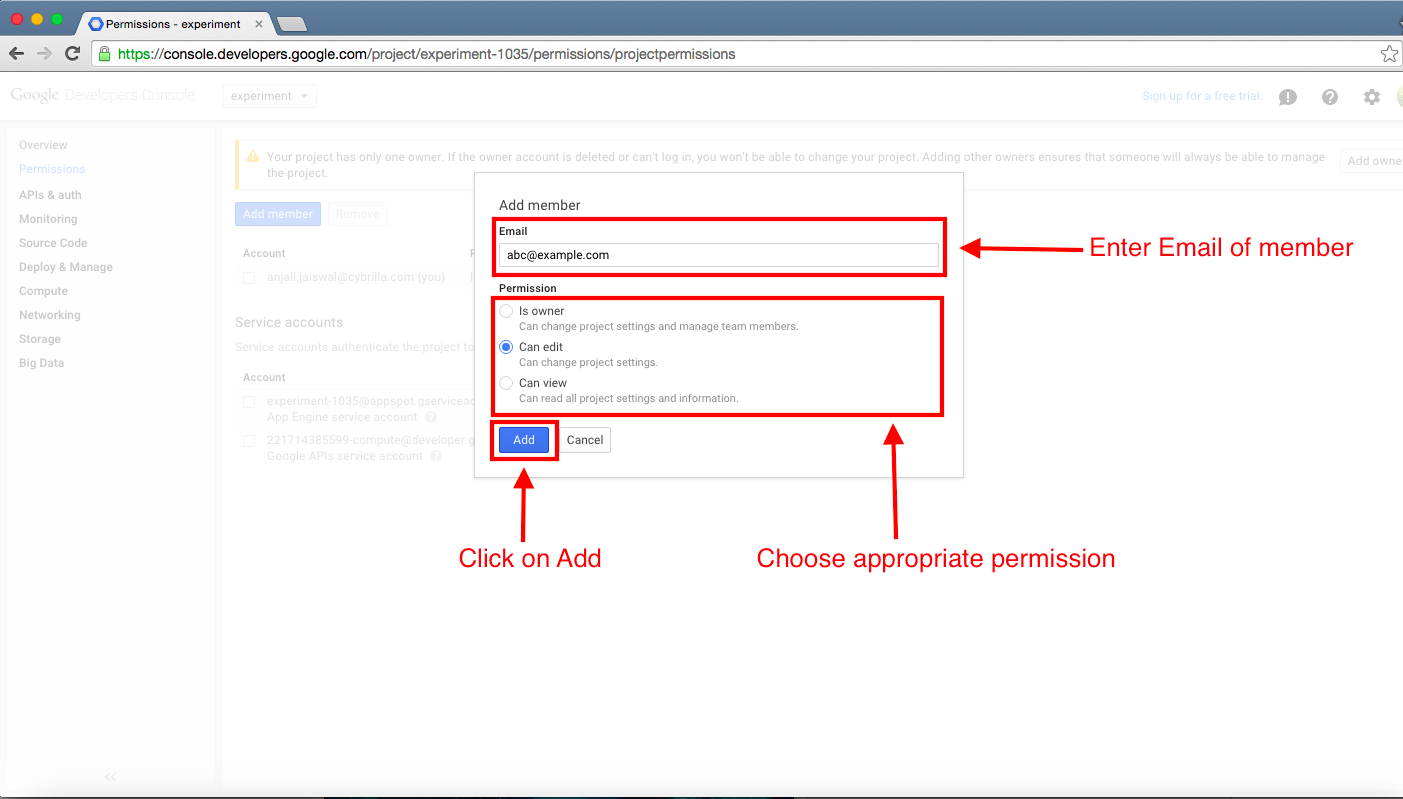
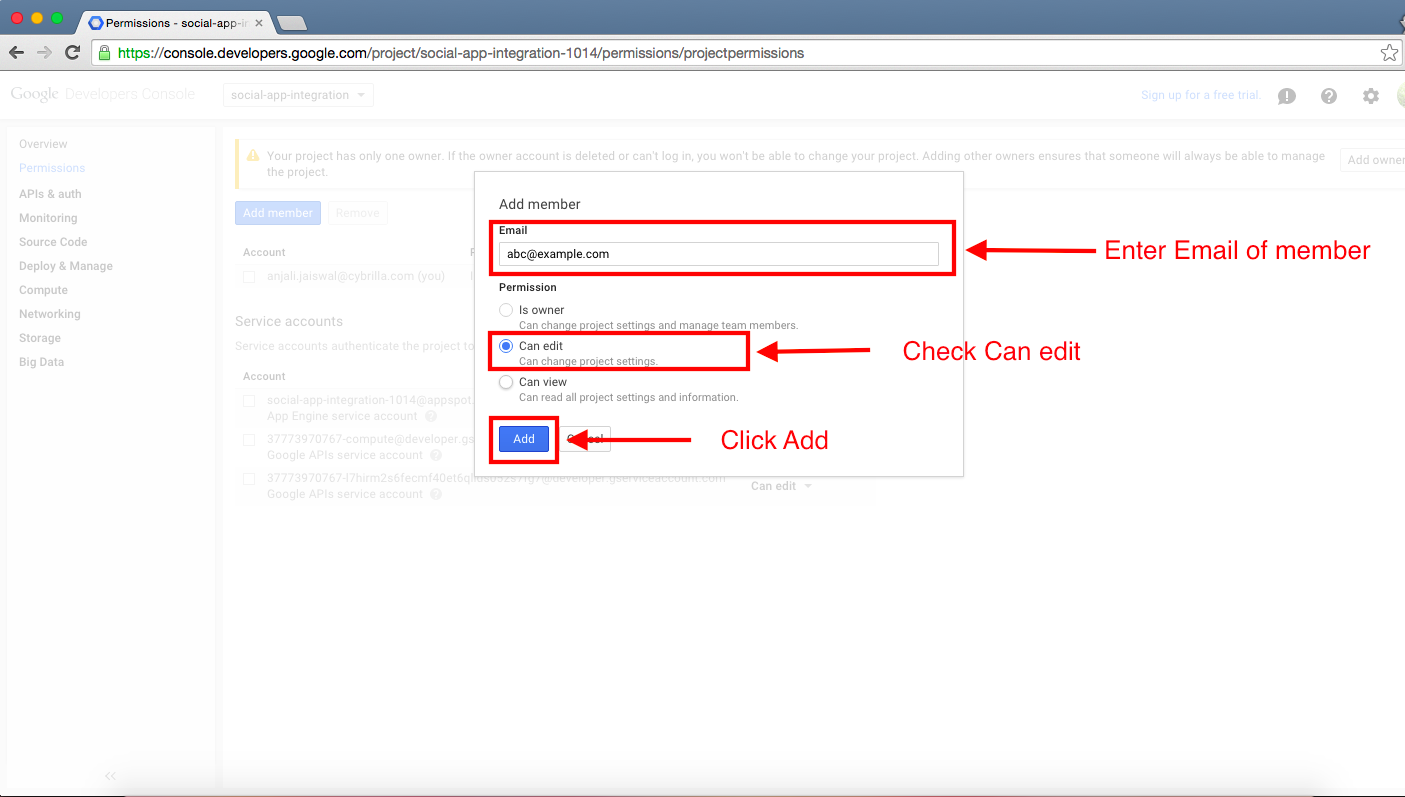
Removed extra steps

diff --git a/google/register-app-with-google.md b/google/register-app-with-google.md
@@ -3,7 +3,7 @@ Register your app with Google:
 
 Log into your account. Then follow:
 
-Step1 : Create an Application
+Step1 : [Create an Application](https://console.developers.google.com/project)
 -----
 ![Step1](images/step1.png?raw=true)
 
@@ -11,47 +11,10 @@ Step2 : Enter all details & submit
 -----
 ![Step2](images/step2.png)
 
-If you want to give developer edit permission then follow step 3 - step 4
-Else jump to step 5
-
 Step3 : Click on Permissions
-_____
+-----
 ![Step3](images/step3.png)
 
-Step4 : Add Member (For developer edit permission would be preferable)
-_____
+Step4 : Add Developer
+-----
 ![Step4](images/step4.png)
-
-Step5 : Click 'APIs & auth'
------
-![Step5](images/step5.png)
-
-Step6 : Make sure "Google+ API" & "Contacts API" are on
------
-![Step6-part1](images/step6.png)
-![Step6-part1.0](images/step6-part-1.png)
-![Step6-part2](images/step6-part-2.png)
-![Step6-part2.0](images/step6-part-2.0.png)
-
-Step7 : Go to Consent Screen
------
-![Step7](images/step7.png)
-
-Step8 : Go to Credentials
------
-![Step8](images/step8.png)
-
-Step9 : Create Client Id
------
-![Step9](images/step9.png)
-
-Step10 : Save Client Id & Client Secret
------
-![Step10](images/step10.png)
-
-And finally ... 
---------------------------------------------------
-Send the following details to your development team
-
-* Client ID
-* Client Secret
